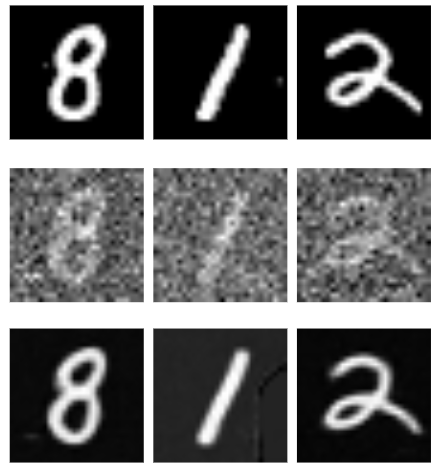
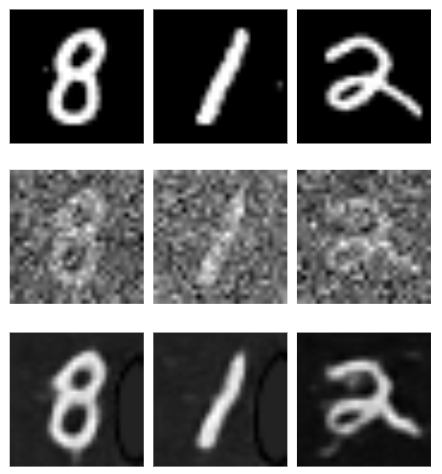
more proj5b webpage

diff --git a/5/index.html b/5/index.html
@@ -206,31 +206,38 @@
 
                 <p>We implement a UNet with the following architecture, as shown in the project spec. Unlike a diffusion model, which removes noise from an image over the course of many iterations, the UNet is designed to denoise an image in a single iteration.</p>
 
-                <img src="media/b/part1_unet.png" alt="img" width="auto" height="500">
+                <img src="media/b/part1_unet.png" alt="img" width="auto" height="400">
 
                 <p>To obtain training data for the UNet, we modify each datapoint in the training portion of the MNIST dataset. Each MNIST datapoint consists of a 28x28 image of a handwritten digit and a label indicating its value.</p>
 
-                <p>We add noise to a clean MNIST image according to the following formula: <code>z = x + delta * epsilon</code>, where <code>x</code> is the clean image, <code>delta</code> is a scalar constant, and <code>epsilon</code> is standard-normal noise. Each <code>(z, x)</code> pair serves as a training datapoint for the UNet; given <code>z</code>, the UNet should recover <code>x</code>. For now, we ignore the original labels of the MNIST dataset.</p>
+                <p>We add noise to a clean MNIST image according to the following formula: <code>z = x + delta * epsilon</code>, where <code>x</code> is the clean image, <code>delta</code> is a scalar constant, and <code>epsilon</code> is standard-normal noise. Each <code>(z, x)</code> pair serves as a training datapoint for the UNet: given <code>z</code>, the UNet should recover <code>x</code>. For now, we ignore the original labels of the MNIST dataset.</p>
 
                 <p>Our noising process produces the following results for various values of <code>delta</code>:</p>
 
                 <img src="media/b/part1_noising.png" alt="img" width="auto" height="400">
 
-                <p>In practice, we generate our training data with <code>delta=0.5</code> only, under the assumption that a thoroughly-trained UNet will be able to handle images with other amounts of noise.</p>
+                <p>In practice, all of our training datapoints have <code>delta=0.5</code> noise, under the assumption that a thoroughly-trained UNet will be able to denoise images with other amounts of noise.</p>
 
                 <p>Our modified training data contains 60,000 datapoints. We train the UNet over 5 epochs with a batch size of 256, a hidden dimension of <code>D = 128</code>, and an Adam optimizer with learning rate <code>1e-4</code>.</p>
 
                 <p>We get the following training losses:</p>
 
-                <img src="media/b/part1_training_losses_UC.png" alt="img" width="auto" height="300">
+                <img src="media/b/part1_training_losses_UC.png" alt="img" width="auto" height="400">
 
                 <p>We generate test datapoints in the same way we generated training datapoints, except we now derive our datapoints from the test portion of MNIST. We test the UNet after each epoch.</p>
 
                 <img src="media/b/part1_epoch1.png" alt="img" width="auto" height="200">
-                <p>caption</p>
-                <img src="media/b/part1_epoch5.png" alt="img" width="auto" height="200">
-                <p>caption</p>
+                <p class="caption">Top: Original MNIST images. Middle: With <code>delta=0.5</code> noise. Bottom: Denoised by first-epoch UNet.</p>
 
+
+                <img src="media/b/part1_epoch5.png" alt="img" width="auto" height="200">
+                <p class="caption">Top: Original MNIST images. Middle: With <code>delta=0.5</code> noise. Bottom: Denoised by fifth-epoch UNet.</p>
+
+                <p>We can see that the fifth-epoch UNet produces fewer visual artefacts than the first-epoch UNet.</p>
+
+                <p>Once the UNet has finished training, we perform "out-of-distribution" testing. We generate noisy images using various values of <code>delta</code> and inspect the results of denoising with the UNet. (It is important that we derive the noisy images from the test portion, not the training portion, of the MNIST dataset.)</p>
+
+                <img src="media/b/part1_outofdistribution.png" alt="img" width="auto" height="200">
 
  </body>
  </html>
